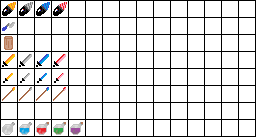
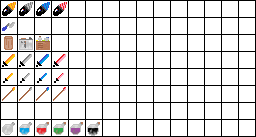
added more potions and elixirs

Changed region(s): [[0.0625, 0.2628, 0.2188, 0.3796], [0.3125, 0.8759, 0.4062, 0.9927]]

diff --git a/src/com/company/Crafting/CraftingRecipe.java b/src/com/company/Crafting/CraftingRecipe.java
@@ -3,6 +3,8 @@ package com.company.Crafting;
 import com.company.CaveExplorer;
 import com.company.Items.Item;
 import com.company.Resources.ResourceType;
+import com.company.Scenes.MainGameScene;
+import com.company.Tiles.Tile;
 
 import java.util.ArrayList;
 
@@ -81,6 +83,30 @@ abstract public class CraftingRecipe {
         return true;
     }
 
+    // overridable
+    public boolean otherRequirementsMet(){
+        return true;
+    }
+
+    // for recipes that require certain crafting stations nearby, etc
+    public boolean tileOfTypeInRange(Class<? extends Tile> classTile, int range){
+
+        int xMin = CaveExplorer.getPlayerCharacter().roundTileX() - range;
+        int yMin = CaveExplorer.getPlayerCharacter().roundTileY() - range;
+        int xMax = CaveExplorer.getPlayerCharacter().roundTileX() + range;
+        int yMax = CaveExplorer.getPlayerCharacter().roundTileY() + range;
+
+        for(int x = xMin; x <= xMax; x++){
+            for(int y = yMin; y <= yMax; y++){
+                if(MainGameScene.getBoard().getTiles()[x][y].getClass() == classTile){
+                    return true;
+                }
+            }
+        }
+
+        return false;
+    }
+
     private void payCost(){
 
         for(int i = 0; i < requiredResources.length; i++){
@@ -111,7 +137,7 @@ abstract public class CraftingRecipe {
         // or has no empty inventory slots - both of those should already be impossible if this methods
         // was allowed to be executed
 
-        if (!ingredientsPresent() || !CaveExplorer.getPlayerCharacter().getInventory().hasEmptyItemSlot()){
+        if (!ingredientsPresent() || !CaveExplorer.getPlayerCharacter().getInventory().hasEmptyItemSlot() || !otherRequirementsMet()){
             return;
         }
 

diff --git a/src/com/company/Agent/PlayerCharacter/PlayerInventory.java b/src/com/company/Agent/PlayerCharacter/PlayerInventory.java
@@ -11,7 +11,7 @@ import com.company.Items.Drills.CopperDrill;
 import com.company.Items.Drills.IronDrill;
 import com.company.Items.Item;
 import com.company.Items.PlaceableObjects.WoodenSupport;
-import com.company.Items.PotionsAndElixirs.PotionOfHealing;
+import com.company.Items.PotionsAndElixirs.*;
 import com.company.Items.Spears.BloodRubySpear;
 import com.company.Items.Spears.CobaltSpear;
 import com.company.Items.Spears.CopperSpear;
@@ -180,8 +180,22 @@ public class PlayerInventory {
         itemsInInventory[1][4] = new IronSpear();
         itemsInInventory[2][4] = new CobaltSpear();
         itemsInInventory[3][4] = new BloodRubySpear();
-        itemsInInventory[0][5] = new PotionOfHealing();
-        itemsInInventory[1][5] = new PotionOfHealing();
-        itemsInInventory[2][5] = new PotionOfHealing();
+        itemsInInventory[5][0] = new PotionOfHealing();
+        itemsInInventory[6][0] = new PotionOfHealing();
+        itemsInInventory[7][0] = new PotionOfHealing();
+        itemsInInventory[5][1] = new ElixirOfRegeneration();
+        itemsInInventory[6][1] = new ElixirOfRegeneration();
+        itemsInInventory[7][1] = new ElixirOfRegeneration();
+        itemsInInventory[5][2] = new ElixirOfSpeed();
+        itemsInInventory[6][2] = new ElixirOfSpeed();
+        itemsInInventory[7][2] = new ElixirOfSpeed();
+        itemsInInventory[5][3] = new FlaskOfWater();
+        itemsInInventory[6][3] = new FlaskOfWater();
+        itemsInInventory[7][3] = new FlaskOfWater();
+        itemsInInventory[5][4] = new ElixirOfStoneSkin();
+        itemsInInventory[6][4] = new ElixirOfStoneSkin();
+        itemsInInventory[7][4] = new ElixirOfStoneSkin();
+
+
     }
 }

diff --git a/src/com/company/Items/PotionsAndElixirs/Elixir.java b/src/com/company/Items/PotionsAndElixirs/Elixir.java
@@ -1,0 +1,49 @@
+package com.company.Items.PotionsAndElixirs;
+
+import com.company.Agent.PlayerCharacter.PlayerCharacter;
+import com.company.Items.IUsableOnButtonPressed;
+import com.company.Items.Item;
+import javafx.animation.AnimationTimer;
+
+abstract public class Elixir extends Item implements IUsableOnButtonPressed {
+
+    protected int duration;
+    protected int effectIncrement;
+
+    abstract protected void startEffect();
+    abstract protected void ongoingEffect();
+    abstract protected void endEffect();
+
+
+    private AnimationTimer effect = new AnimationTimer() {
+
+        int currentRotation = 0;
+
+        @Override
+        public void handle(long now) {
+
+            if(currentRotation == 0){
+                startEffect();
+            } else if (currentRotation % effectIncrement == 0){
+                ongoingEffect();
+            } else if (currentRotation == duration){
+                endEffect();
+                stop();
+            }
+
+            currentRotation++;
+
+        }
+    };
+
+    @Override
+    public boolean usageInProgress() {
+        return false;
+    }
+
+    @Override
+    public void usage(PlayerCharacter playerCharacter) {
+        effect.start();
+        playerCharacter.getInventory().removeSpecificItem(this);
+    }
+}

diff --git a/src/com/company/Items/ItemTypes.java b/src/com/company/Items/ItemTypes.java
@@ -10,7 +10,7 @@ import com.company.Items.Drills.CobaltDrill;
 import com.company.Items.Drills.CopperDrill;
 import com.company.Items.Drills.IronDrill;
 import com.company.Items.PlaceableObjects.WoodenSupport;
-import com.company.Items.PotionsAndElixirs.PotionOfHealing;
+import com.company.Items.PotionsAndElixirs.*;
 import com.company.Items.Spears.BloodRubySpear;
 import com.company.Items.Spears.CobaltSpear;
 import com.company.Items.Spears.CopperSpear;
@@ -68,9 +68,12 @@ final public class ItemTypes {
         getItemTypeMap().put(15, BloodRubySpear.class);
         getItemTypeMap().put(16, Trowel.class);
         getItemTypeMap().put(17, WoodenSupport.class);
-
-
+        getItemTypeMap().put(18, SilverFlask.class);
+        getItemTypeMap().put(19, FlaskOfWater.class);
         getItemTypeMap().put(20, PotionOfHealing.class);
+        getItemTypeMap().put(21, ElixirOfSpeed.class);
+        getItemTypeMap().put(22, ElixirOfRegeneration.class);
+        getItemTypeMap().put(23, ElixirOfStoneSkin.class);
 
     }
 }

diff --git a/src/com/company/Items/PotionsAndElixirs/ElixirOfSpeed.java b/src/com/company/Items/PotionsAndElixirs/ElixirOfSpeed.java
@@ -1,0 +1,32 @@
+package com.company.Items.PotionsAndElixirs;
+
+import com.company.CaveExplorer;
+import com.company.ImageBank;
+
+final public class ElixirOfSpeed extends Elixir{
+
+
+    private final double SPEED_BONUS = 0.0625;
+
+    @Override
+    protected void startEffect() {
+        CaveExplorer.getPlayerCharacter().setMovementSpeed(CaveExplorer.getPlayerCharacter().getMovementSpeed()+ SPEED_BONUS);
+    }
+
+    @Override
+    protected void ongoingEffect() {
+        // none
+    }
+
+    @Override
+    protected void endEffect() {
+        CaveExplorer.getPlayerCharacter().setMovementSpeed(CaveExplorer.getPlayerCharacter().getMovementSpeed()- SPEED_BONUS);
+    }
+
+    public ElixirOfSpeed(){
+        setName("Elixir of Speed");
+        setImage(ImageBank.getItemTiles1(),7,3);
+        duration = 1000;
+        effectIncrement = Integer.MAX_VALUE; // no ongoing effect
+    }
+}

diff --git a/src/com/company/Items/PotionsAndElixirs/ElixirOfStoneSkin.java b/src/com/company/Items/PotionsAndElixirs/ElixirOfStoneSkin.java
@@ -1,0 +1,31 @@
+package com.company.Items.PotionsAndElixirs;
+
+import com.company.CaveExplorer;
+import com.company.ImageBank;
+
+final public class ElixirOfStoneSkin extends Elixir{
+
+    private final int DEFENCE_BONUS = 4;
+
+    @Override
+    protected void startEffect() {
+        CaveExplorer.getPlayerCharacter().setDefence(CaveExplorer.getPlayerCharacter().getDefence()+DEFENCE_BONUS);
+    }
+
+    @Override
+    protected void ongoingEffect() {
+        // none
+    }
+
+    @Override
+    protected void endEffect() {
+        CaveExplorer.getPlayerCharacter().setDefence(CaveExplorer.getPlayerCharacter().getDefence()-DEFENCE_BONUS);
+    }
+
+    public ElixirOfStoneSkin(){
+        setName("Elixir of Stone Skin");
+        setImage(ImageBank.getItemTiles1(),7,5);
+        duration = 5000;
+        effectIncrement = Integer.MAX_VALUE; // no ongoing effect
+    }
+}

diff --git a/src/com/company/Items/PotionsAndElixirs/ElixirOfRegeneration.java b/src/com/company/Items/PotionsAndElixirs/ElixirOfRegeneration.java
@@ -1,0 +1,29 @@
+package com.company.Items.PotionsAndElixirs;
+
+import com.company.CaveExplorer;
+import com.company.ImageBank;
+
+final public class ElixirOfRegeneration extends Elixir{
+
+    @Override
+    protected void startEffect() {
+        // none
+    }
+
+    @Override
+    protected void ongoingEffect() {
+        CaveExplorer.getPlayerCharacter().healDamage(1);
+    }
+
+    @Override
+    protected void endEffect() {
+       // none
+    }
+
+    public ElixirOfRegeneration(){
+        setName("Elixir of Regeneration");
+        setImage(ImageBank.getItemTiles1(),7,4);
+        duration = 5000;
+        effectIncrement = 50;
+    }
+}

diff --git a/src/com/company/Board/BoardBuilder/BoardBuilder.java b/src/com/company/Board/BoardBuilder/BoardBuilder.java
@@ -9,7 +9,7 @@ public class BoardBuilder {
     private static TerrainGenerator terrainGenerator = new TerrainGenerator();
     private static StructureGenerator structureGenerator = new StructureGenerator();
 
-    // "true" value will prevent a structure spawning too close to another structure
+    // "true" value will prevent a structure spawning too close to another structure todo
     private static boolean[][] occupied;
 
     public static int[][] generateGrid(int sideLengthInTiles, double oreAmount, double terrainAmount, double structureAmount){

diff --git a/src/com/company/Items/PotionsAndElixirs/FlaskOfWater.java b/src/com/company/Items/PotionsAndElixirs/FlaskOfWater.java
@@ -1,0 +1,19 @@
+package com.company.Items.PotionsAndElixirs;
+
+import com.company.CaveExplorer;
+import com.company.ImageBank;
+
+final public class FlaskOfWater extends Potion {
+
+    @Override
+    void takeEffect() {
+        CaveExplorer.getPlayerCharacter().healDamage(10+Math.random()*11); // 10-20
+    }
+
+    public FlaskOfWater(){
+        setName("Flask of Water");
+        setImage(ImageBank.getItemTiles1(),7,1);
+
+    }
+
+}

diff --git a/src/com/company/Crafting/Weapons/Recipe_IronDagger.java b/src/com/company/Crafting/Weapons/Recipe_IronDagger.java
@@ -5,7 +5,9 @@ import com.company.Items.Daggers.CopperDagger;
 import com.company.Items.Daggers.IronDagger;
 import com.company.Resources.ResourceType;
 
+
 final public class Recipe_IronDagger extends CraftingRecipe {
+
     public Recipe_IronDagger(){
         super(IronDagger.class);
         setRequiredResource(ResourceType.IRON, 5);

diff --git a/src/com/company/Crafting/Weapons/Recipe_CopperDagger.java b/src/com/company/Crafting/Weapons/Recipe_CopperDagger.java
@@ -5,6 +5,9 @@ import com.company.Items.Daggers.CopperDagger;
 import com.company.Resources.ResourceType;
 
 final public class Recipe_CopperDagger extends CraftingRecipe {
+
+
+
     public Recipe_CopperDagger(){
         super(CopperDagger.class);
         setRequiredResource(ResourceType.COPPER, 5);

diff --git a/src/com/company/Items/PotionsAndElixirs/SilverFlask.java b/src/com/company/Items/PotionsAndElixirs/SilverFlask.java
@@ -1,0 +1,12 @@
+package com.company.Items.PotionsAndElixirs;
+
+import com.company.ImageBank;
+import com.company.Items.Item;
+
+final public class SilverFlask extends Item {
+
+    public SilverFlask(){
+        setName("Silver Flask");
+        setImage(ImageBank.getItemTiles1(),7,0);
+    }
+}
